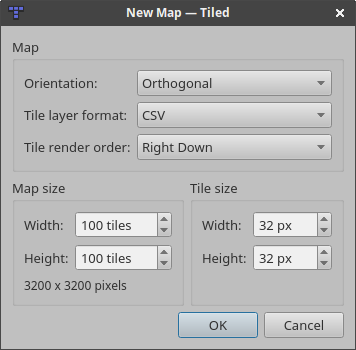
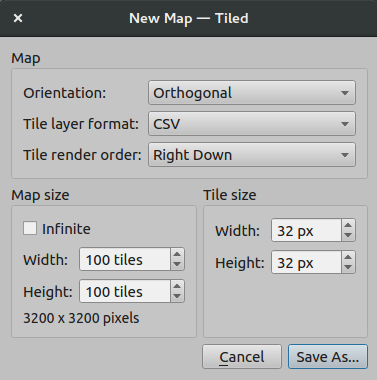
Minor changes

diff --git a/docs/manual/introduction.rst b/docs/manual/introduction.rst
@@ -60,7 +60,7 @@ first thing we’ll do is to start a new map with *File -> New…*
    New Map
 
 Here, we choose the initial map size, tile size, orientation, tile layer
-format and tile render order (only supported for *Orthogonal* maps). All
+format, tile render order (only supported for *Orthogonal* maps) and whether the map is infinite or not. All
 of these things can be changed later as needed, so it’s not important to
 get it all right the first time.
 
